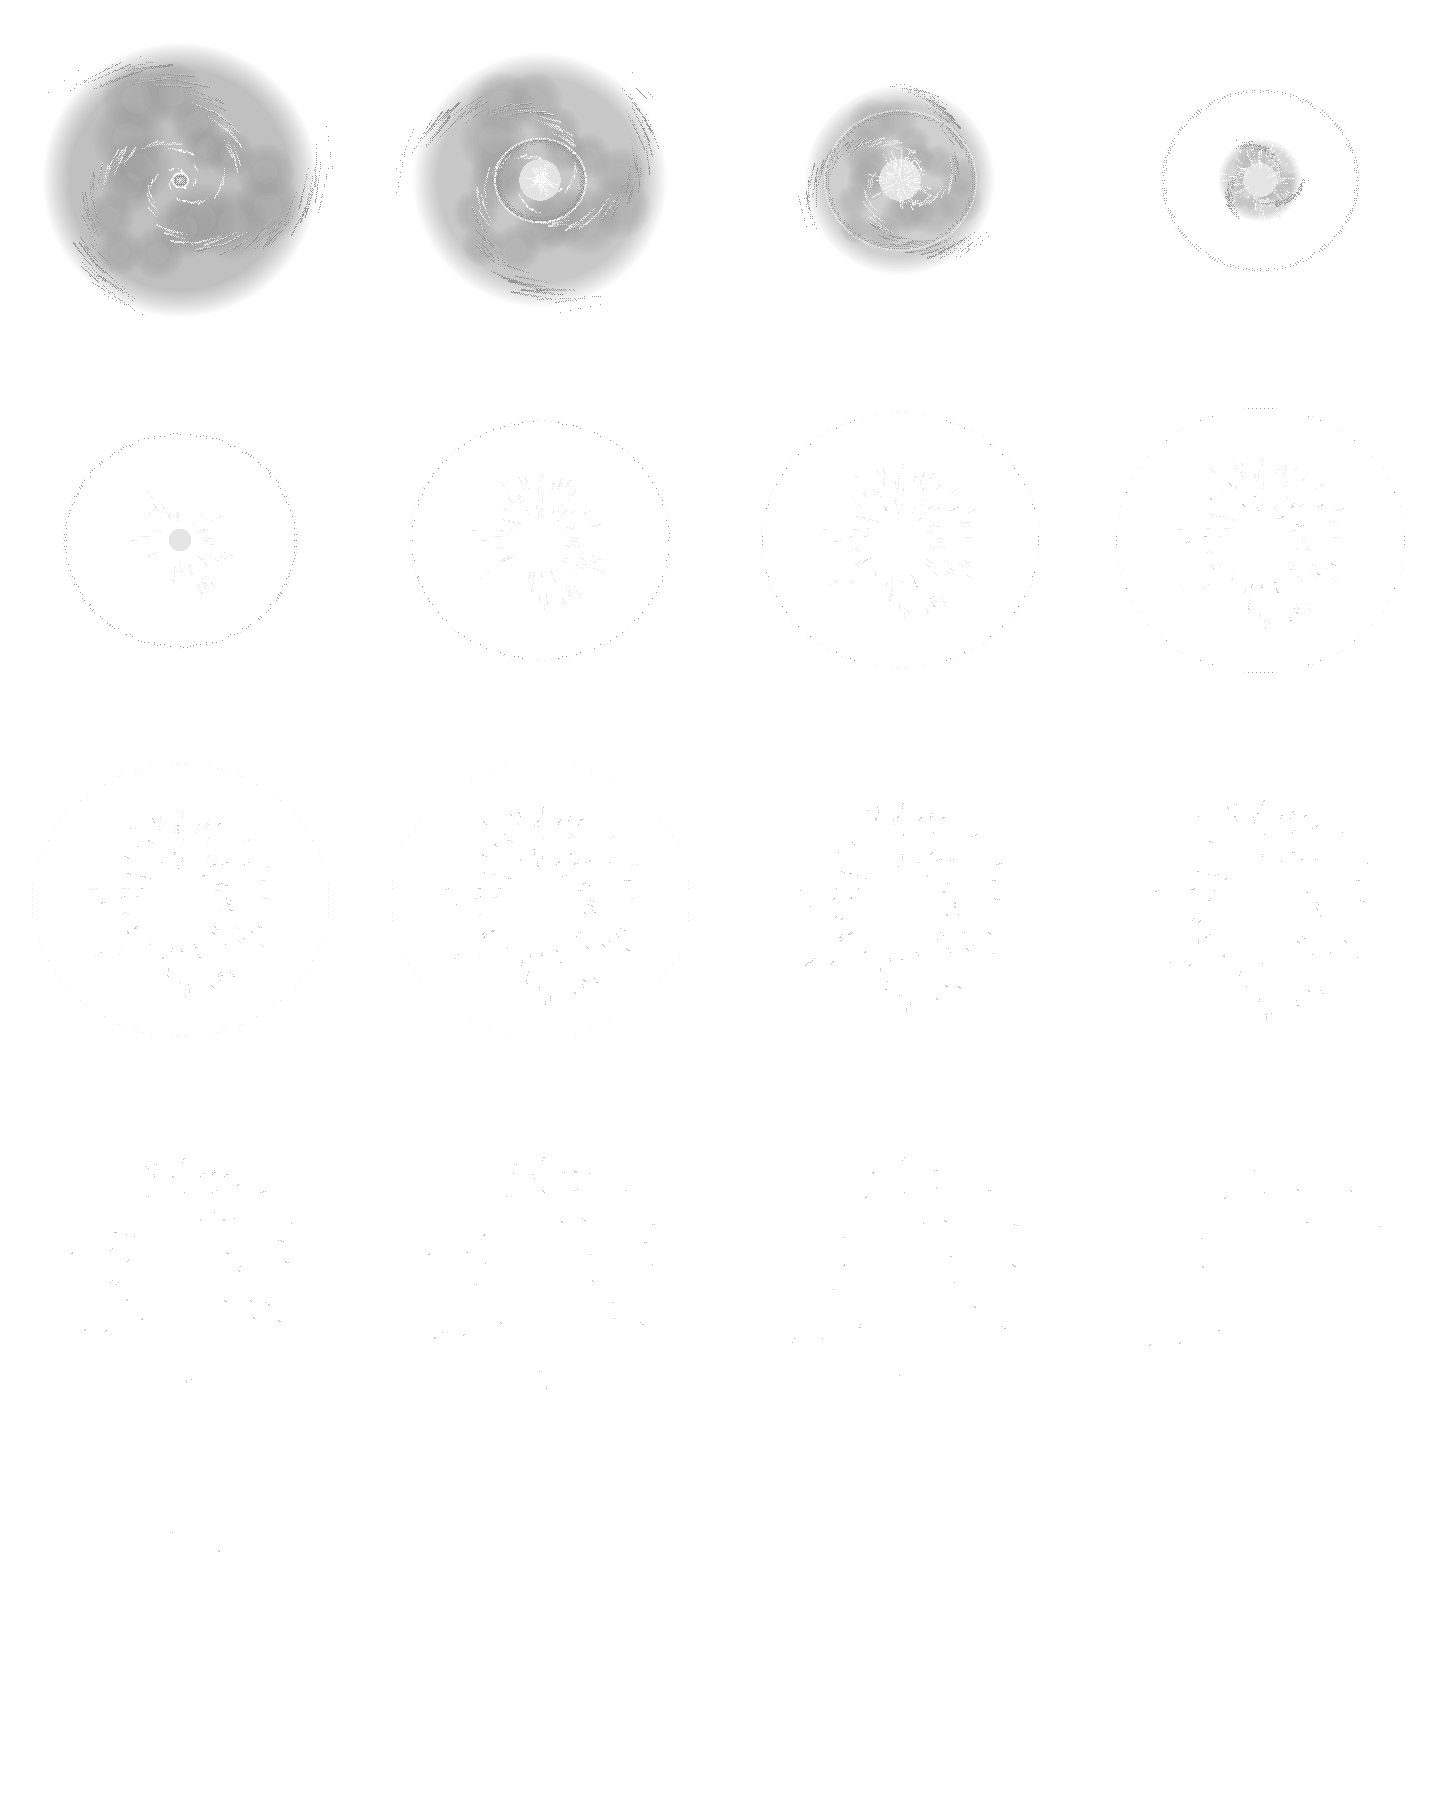
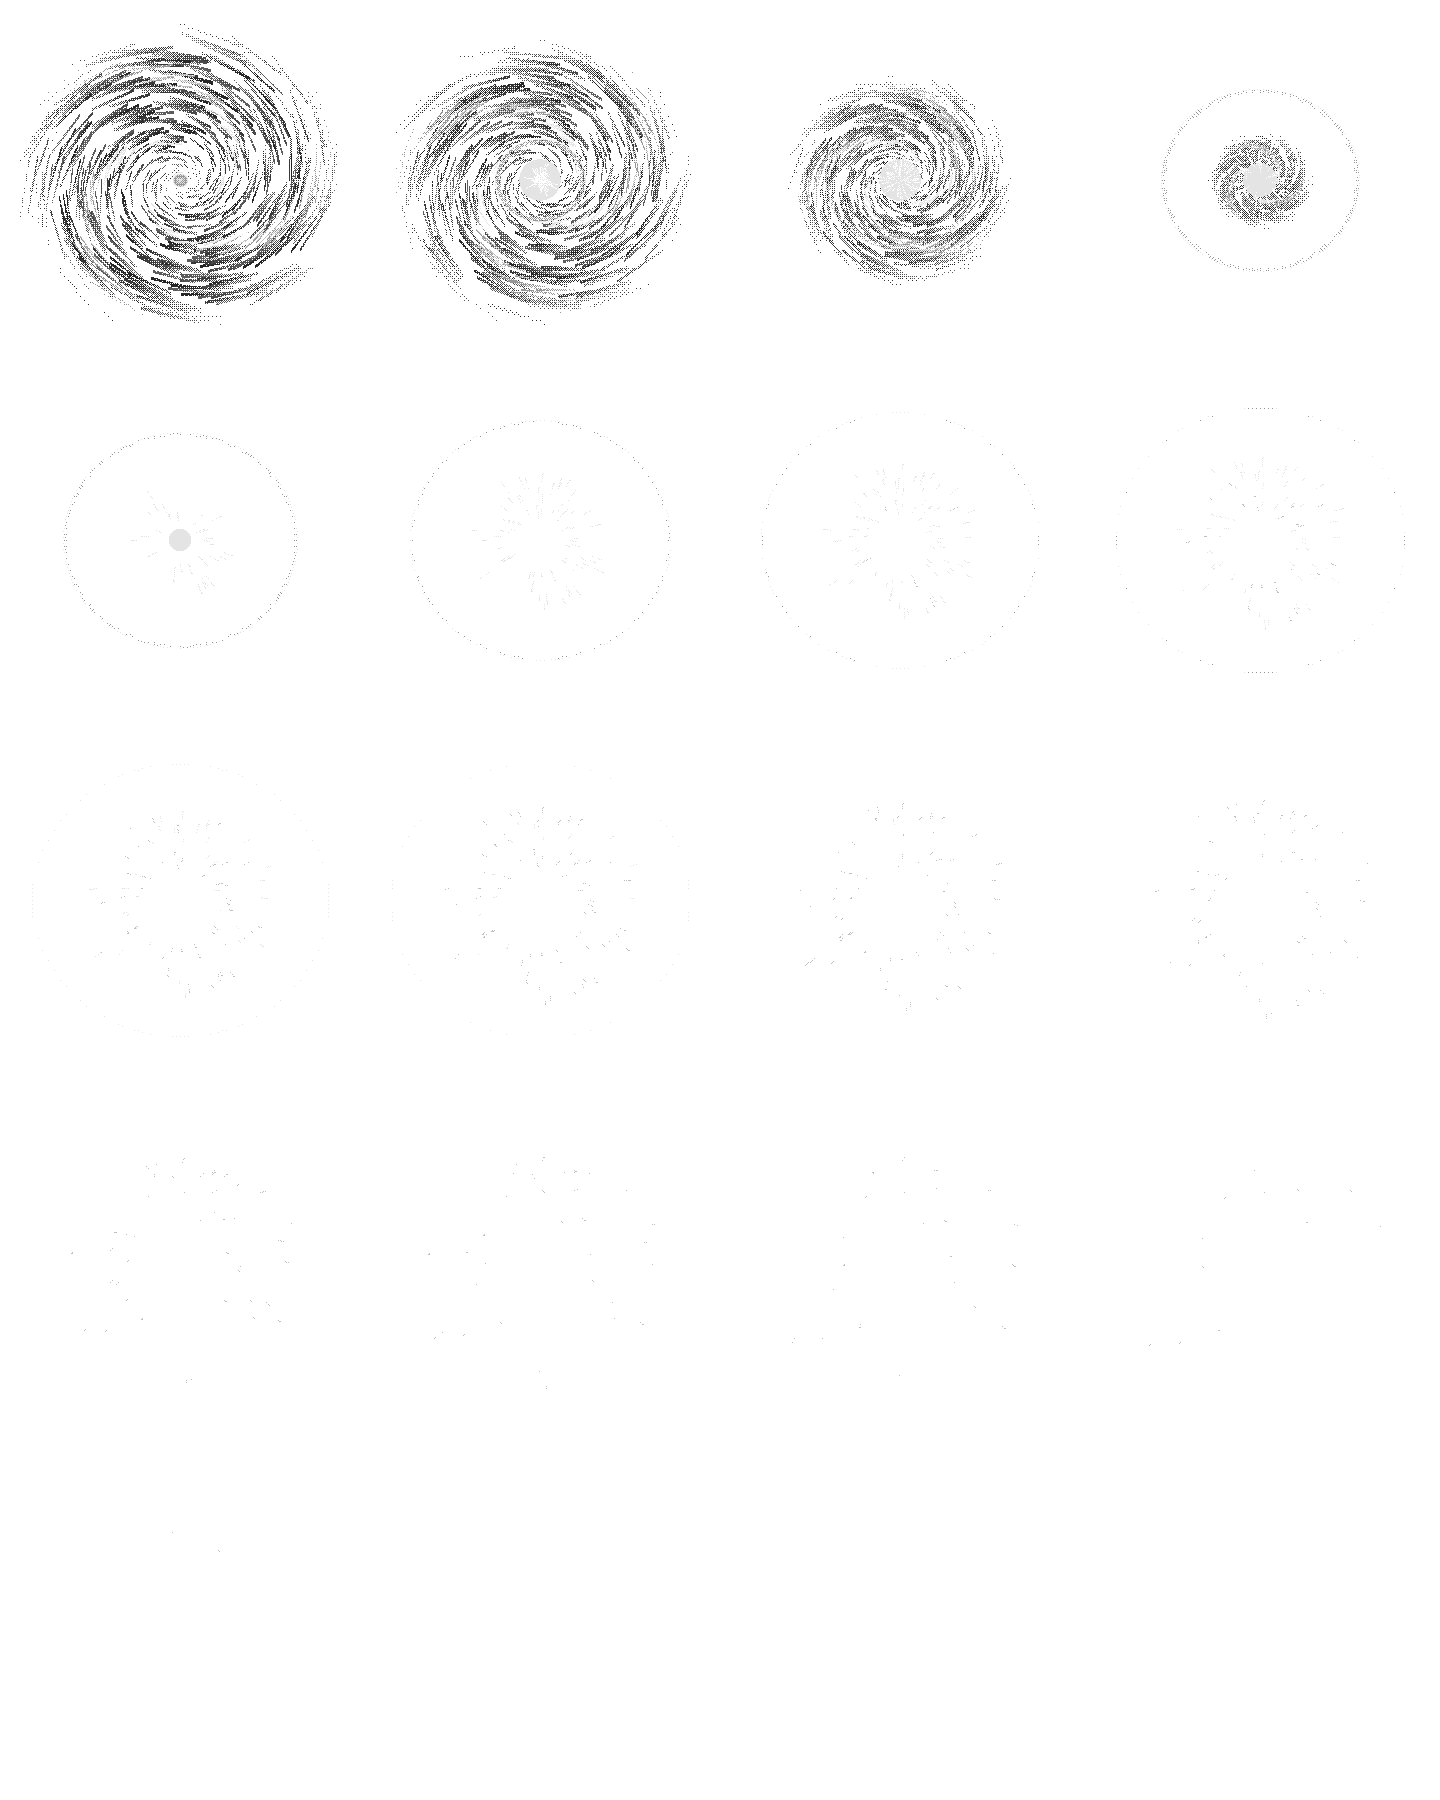
소용돌이: 안개 빼고 뒤에 어두운 궤도를 촘촘히 깔기

diff --git a/tools/pixelfx/elem-vortex.js b/tools/pixelfx/elem-vortex.js
@@ -17,6 +17,7 @@ export const meta = {
   bg: "dark",
   options: {
     palette: ["#6a6a6a", "#969696", "#c0c0c0", "#e4e4e4", "#ffffff"],
+    back: ["#262626", "#383838", "#4a4a4a", "#5c5c5c"],
     layer: "both",
     seed: 1,
   },
@@ -26,21 +27,25 @@ export const R = 150;
 const hash = (a, b) => { let h = (a * 374761393 + b * 668265263) | 0; h = Math.imul(h ^ (h >>> 13), 1274126177); return ((h ^ (h >>> 16)) >>> 0) / 4294967296; };
 const frac = (v) => v - Math.floor(v);
 
-/** 범위 안 안개: 반투명 덩어리가 소용돌이와 같이 천천히 돔. 범위 원 밖으로는 안 나감. k = 크기 배율 */
-export function drawFog(p, ph, C, k = 1, alpha = 1) {
-  const RY = R * 0.92 * k;
-  // 바탕: 범위 전체를 옅게, 가장자리는 부드럽게
-  p.disc(0, 0, RY, C[1], (d) => 0.3 * alpha * (d < 0.8 ? 1 : (1 - d) / 0.2));
-  // 덩어리: 자리마다 크기가 정해져 있어서 한 칸씩 돌면 반복 이음매 없음
-  const N = 16;
-  for (let i = 0; i < N; i++) {
-    const th = ((i + ph) / N) * Math.PI * 2 + 0.3;
-    const rr = (0.3 + 0.38 * (0.5 + 0.5 * Math.sin(th * 3 + 1))) * RY;
-    const size = (24 + 14 * (0.5 + 0.5 * Math.sin(th * 2))) * k;
-    const x = Math.cos(th) * rr, y = Math.sin(th) * rr;
-    const lim = Math.min(size, RY - Math.hypot(x, y));
-    if (lim < 3) continue;
-    p.disc(Math.round(x), Math.round(y), lim, (d) => (d < 0.4 ? C[2] : C[1]), (d) => 0.24 * alpha * (1 - d * d));
+/** 뒤쪽 궤도: 앞 팔과 같은 나선을 더 많이·촘촘하게·두껍게, 어두운 색 여러 단계로 깔아 범위를 채움. k = 크기 배율 */
+export function drawBackSwirl(p, ph, D, k = 1, spin = 0, alpha = 1) {
+  const ARMS = 9, PER = 64;
+  const rot = ph * Math.PI * 2 * (1 / 3) + spin; // 앞 팔과 같은 속도 (9팔이라 1/3 바퀴마다 같은 모양)
+  for (let a = 0; a < ARMS; a++) {
+    for (let i = 0; i < PER; i++) {
+      const id = 500 + a * PER + i;
+      const u = frac(ph + i / PER + hash(id, 1) * 0.05);
+      const r = R * k * Math.pow(1 - u, 0.8) * (0.9 + hash(id, 2) * 0.2);
+      if (r < 6 * k) continue;
+      const th = rot + ((a + 0.5) / ARMS) * Math.PI * 2 + 3.4 * Math.log(R / Math.max(r / k, 4)) * 0.55 + (hash(id, 3) - 0.5) * 0.5;
+      const x = Math.cos(th) * r, y = Math.sin(th) * r * 0.92;
+      const tl = 4 + Math.round((1 - u) * 8 * k);
+      const tx = Math.cos(th - 0.4) * (r + tl), ty = Math.sin(th - 0.4) * (r + tl) * 0.92;
+      const c = D[Math.floor(hash(id, 5) * D.length)];
+      const al = Math.min(1, u * 5) * (u > 0.85 ? (1 - u) / 0.15 : 1) * alpha;
+      const w = r > R * k * 0.35 ? 1 : 0; // 바깥쪽은 3줄 두께, 중심 가까이는 2줄
+      for (let o = -1; o <= w; o++) p.line(Math.round(x), Math.round(y) + o, Math.round(tx), Math.round(ty) + o, c, (q) => (1 - q * 0.7) * al);
+    }
   }
 }
 
@@ -72,7 +77,7 @@ export function draw(p, t, o) {
   const C = fit(o.palette, 5), ph = t / meta.duration;
   const color = o.layer !== "core", core = o.layer !== "color";
 
-  if (color) drawFog(p, ph, C);
+  if (color) drawBackSwirl(p, ph, fit(o.back, 4));
 
   // 범위 테두리: 끊긴 점선 원이 천천히 돔
   if (color) for (let i = 0; i < 90; i++) {

diff --git a/tools/pixelfx/elem-vortex-burst.js b/tools/pixelfx/elem-vortex-burst.js
@@ -1,7 +1,7 @@
 // pixelfx 원본 (https://github.com/patch-gg/pixelfx 의 src/fx/arcane/ 에 elem-vortex.js 와 함께 넣고 node tools/render.mjs arcane/elem-vortex-burst 로 그림)
 // 게임용 PNG (4칸씩 여러 줄): vortex_burst.png {"layer":"color"} · vortex_burst_core.png {"layer":"core"}
 import { fit, clamp, ease, WHITE } from "../../core/index.js";
-import { drawSwirl, drawFog, R } from "./elem-vortex.js";
+import { drawSwirl, drawBackSwirl, R } from "./elem-vortex.js";
 
 // 궁수 소용돌이 터짐 (한 번): 화살이 중심에 닿으면 소용돌이가 빠르게 줄어들며 사라지고,
 // 충격파 고리가 퍼지고 파편이 튀어 나가다 느려지며 살짝 떨어짐. 원점 = 중심. 1 칸 = 화면 2px
@@ -17,6 +17,7 @@ export const meta = {
   bg: "dark",
   options: {
     palette: ["#6a6a6a", "#969696", "#c0c0c0", "#e4e4e4", "#ffffff"],
+    back: ["#262626", "#383838", "#4a4a4a", "#5c5c5c"],
     layer: "both",
     seed: 1,
   },
@@ -33,7 +34,7 @@ export function draw(p, t, o) {
   // 소용돌이가 빠르게 감기며 줄어듦
   if (t < SHRINK) {
     const k = 1 - ease.inQuad(t / SHRINK);
-    if (color) drawFog(p, t / 0.6, C, k, 1 - t / SHRINK * 0.5);
+    if (color) drawBackSwirl(p, t / 0.6, fit(o.back, 4), k, t * 40, 1 - t / SHRINK * 0.5);
     drawSwirl(p, t / 0.6, C, color, core, k, t * 40, 1);
   }
 

diff --git a/document/업데이트노트.md b/document/업데이트노트.md
@@ -6,7 +6,7 @@
 ---
 
 ## 2026-11-19
-- 궁수 소용돌이 화살 이펙트: 범위 안은 안개 + 나선으로 빨려 드는 소용돌이, 밖은 알갱이가 천천히 퍼짐. 큰 화살이 중심에 닿으면 소용돌이가 줄어들며 충격파와 파편으로 터지고 끝남
+- 궁수 소용돌이 화살 이펙트: 범위 안은 어두운 궤도가 촘촘히 깔린 나선 소용돌이, 밖은 알갱이가 천천히 퍼짐. 큰 화살이 중심에 닿으면 소용돌이가 줄어들며 충격파와 파편으로 터지고 끝남
 - 궁수 화살 그림: 기본 화살(사슬 화살 포함)과 큰 화살을 pixelfx 로 그림. 흰 심 + 원소 색, 큰 화살은 촉에서 나온 알갱이가 몸통을 따라 흐르다 깃에서 퍼짐
 - 검사 오의 천붕 이펙트: 새 그림(모으기 + 연속 베기 5칸)을 판정 5번 박자에 맞춰 재생. 연기는 원소 색, 하얀 베기 선은 흰색 그대로
 - 검사 회류참 이펙트: 뒤로 미끄러지는 동안 손에서 나온 검기 하나가 부드럽게 휘며 따라옴 (얇게→굵게→얇게), 꼬리는 가루로 흩어지고 도착 직전에 사라짐. 발밑에 먼지 (흰 심 + 원소 색 테두리)
